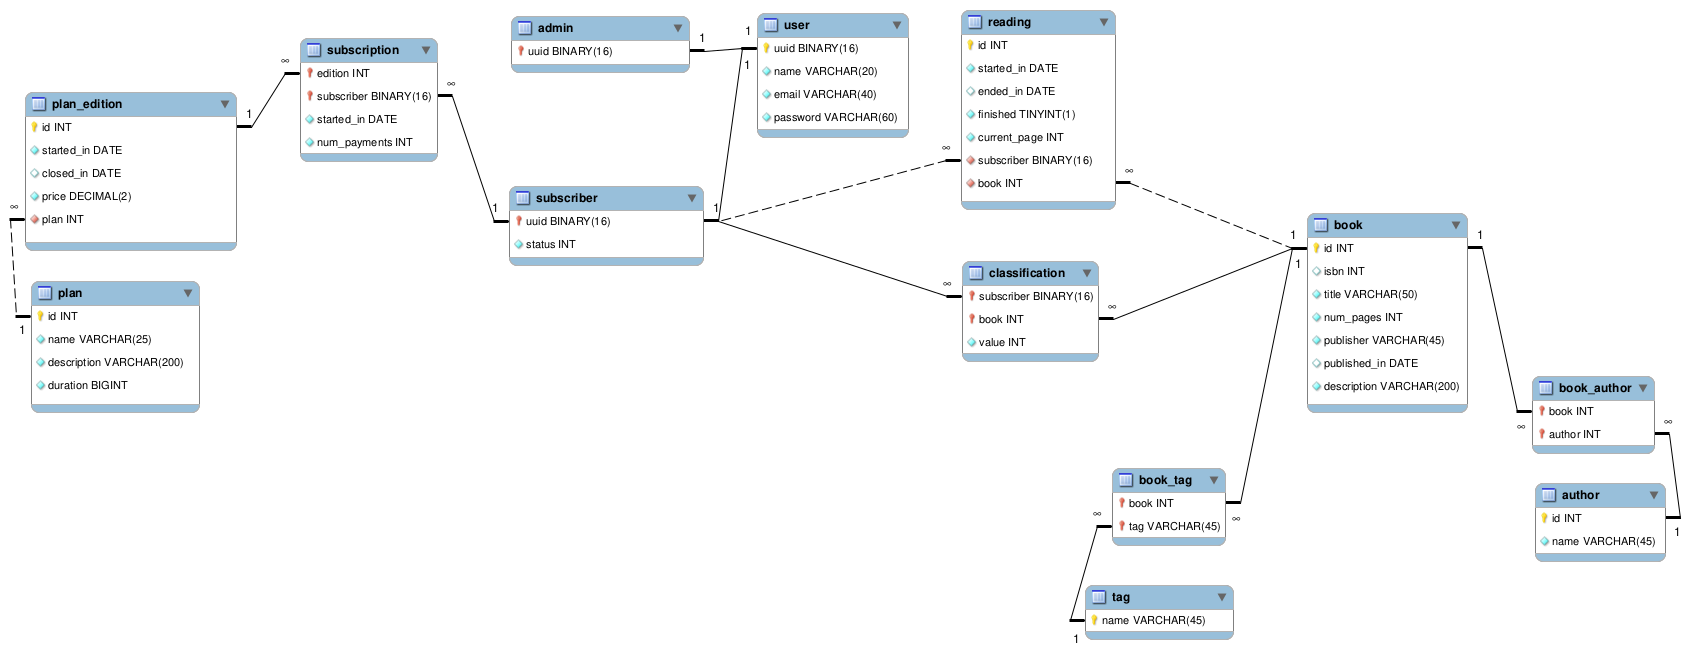
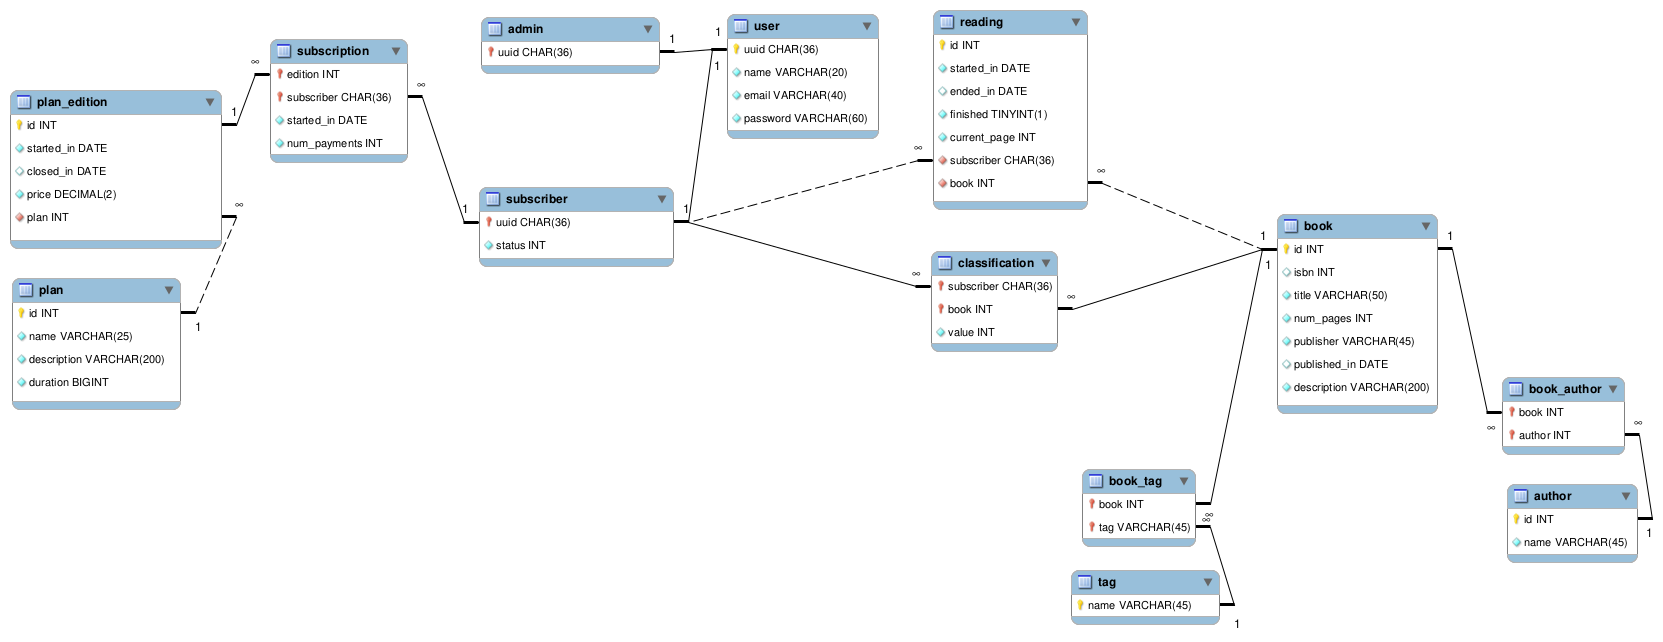
[chore] Adaptando métodos ao novo modelo do banco de dados

diff --git a/backend/src/main/java/app/netbooks/backend/repositories/UsersRepositoryImpl.java b/backend/src/main/java/app/netbooks/backend/repositories/UsersRepositoryImpl.java
@@ -6,8 +6,10 @@ import java.sql.ResultSet;
 import java.sql.SQLException;
 import java.sql.Statement;
 import java.util.ArrayList;
+import java.util.LinkedHashMap;
 import java.util.LinkedList;
 import java.util.List;
+import java.util.Map;
 import java.util.Optional;
 import java.util.UUID;
 
@@ -19,7 +21,6 @@ import app.netbooks.backend.connections.Database;
 import app.netbooks.backend.errors.InternalServerError;
 import app.netbooks.backend.models.Role;
 import app.netbooks.backend.models.User;
-import app.netbooks.backend.utils.UUIDUtils;
 
 @Repository
 public class UsersRepositoryImpl extends BaseRepository implements UsersRepository {
@@ -40,39 +41,65 @@ public class UsersRepositoryImpl extends BaseRepository implements UsersReposito
             try (
                 Statement statement = connection.createStatement();
                 PreparedStatement preparedCreateStatement = connection.prepareStatement(
-                    "INSERT IGNORE INTO user (name, email, password) \n" +
-                    "VALUES ('Admin', 'admin@gmail.com', ?);"
+                    "INSERT INTO user (uuid, name, email, password)\n" +
+                    "VALUES (UUID(), 'Admin', 'admin@gmail.com', ?)\n" +
+                    "ON DUPLICATE KEY UPDATE\n" +
+                    "    name = VALUES(name),\n" +
+                    "    password = VALUES(password);"
                 );
                 PreparedStatement preparedSetAdminStatement = connection.prepareStatement(
-                    "INSERT IGNORE INTO admin (uuid) \n" +
-                    "VALUES (?);"
+                    "INSERT INTO admin (uuid)\n" +
+                    "SELECT * FROM (SELECT ?) AS tmp\n" +
+                    "WHERE NOT EXISTS (\n" +
+                    "    SELECT 1 FROM admin WHERE uuid = ?\n" +
+                    ") LIMIT 1;"
                 );
             ) {
-                statement.execute(
-                    "DELETE FROM user WHERE email = 'admin@gmail.com';"
-                );
-
                 preparedCreateStatement.setString(1, encoder.encode("admin"));
                 preparedCreateStatement.executeUpdate();
 
-                byte[] bytes = {};
-                
                 try (
                     ResultSet result = statement.executeQuery(
                         "SELECT * FROM user WHERE email = 'admin@gmail.com';"
                     );
                 ) {
                     if(result.next()) {
-                        bytes = result.getBytes("uuid");
+                        UUID uuid = UUID.fromString(result.getString("uuid"));
+                        preparedSetAdminStatement.setString(1, uuid.toString());
+                        preparedSetAdminStatement.setString(2, uuid.toString());
+                        preparedSetAdminStatement.executeUpdate();
                     };
                 }
-                
-                preparedSetAdminStatement.setBytes(1, bytes);
+              
                 connection.commit();
             };
         } catch (SQLException e) {
             e.printStackTrace();
         };
+    };
+
+    private Map<UUID, List<Role>> findAllRoles(Connection connection) {
+        Map<UUID, List<Role>> rolesMap = new LinkedHashMap<>();
+
+        try (
+            Statement statement = connection.createStatement();
+            ResultSet result = statement.executeQuery(
+                "SELECT * FROM user_roles;"
+            );
+        ) {
+            while(result.next()) {
+                UUID uuid = UUID.fromString(result.getString("uuid"));
+                Role role = Role.fromString(result.getString("role"));
+                rolesMap.computeIfAbsent(
+                    uuid,
+                    v -> new ArrayList<Role>()
+                ).add(role);
+            };
+        } catch (SQLException e) {
+            e.printStackTrace();
+        };
+
+        return rolesMap;
     };
 
     @Override
@@ -86,14 +113,14 @@ public class UsersRepositoryImpl extends BaseRepository implements UsersReposito
                 "SELECT * FROM user;"
             );
         ) {
+            Map<UUID, List<Role>> allRoles = this.findAllRoles(connection);
             while(result.next()) {
-                byte[] bytes = result.getBytes("uuid");
-                UUID uuid = UUIDUtils.fromBytes(bytes);
+                UUID uuid = UUID.fromString(result.getString("uuid"));
                 String email = result.getString("email");
                 String name = result.getString("name");
                 String password = result.getString("password");
-                // Access access = Access.fromValue(result.getInt("access"));
-                User person = new User(uuid, name, email, password, new LinkedList<Role>());
+                List<Role> roles = allRoles.getOrDefault(uuid, new LinkedList<>());
+                User person = new User(uuid, name, email, password, roles);
                 persons.add(person);
             };
         } catch (SQLException e) {
@@ -111,7 +138,9 @@ public class UsersRepositoryImpl extends BaseRepository implements UsersReposito
                 "SELECT * FROM user WHERE uuid = ?;"
             );
         ) {
-            statement.setBytes(1, UUIDUtils.toBytes(uuid));
+            statement.setString(1, uuid.toString());
+
+            Map<UUID, List<Role>> allRoles = this.findAllRoles(connection);
             try (ResultSet result = statement.executeQuery();) {
                 Optional<User> userFound = Optional.empty();
 
@@ -119,7 +148,8 @@ public class UsersRepositoryImpl extends BaseRepository implements UsersReposito
                     String name = result.getString("name");
                     String email = result.getString("email");
                     String password = result.getString("password");
-                    User user = new User(uuid, name, email, password, new LinkedList<Role>());
+                    List<Role> roles = allRoles.getOrDefault(uuid, new LinkedList<>());
+                    User user = new User(uuid, name, email, password, roles);
                     userFound = Optional.of(user);
                 };
 
@@ -139,15 +169,17 @@ public class UsersRepositoryImpl extends BaseRepository implements UsersReposito
             );
         ) {
             statement.setString(1, email);
+
+            Map<UUID, List<Role>> allRoles = this.findAllRoles(connection);
             try (ResultSet result = statement.executeQuery()) {
                 Optional<User> userFound = Optional.empty();
 
                 if(result.next()) {
-                    byte[] bytes = result.getBytes("uuid");
-                    UUID uuid = UUIDUtils.fromBytes(bytes);
+                    UUID uuid = UUID.fromString(result.getString("uuid"));
                     String name = result.getString("name");
                     String password = result.getString("password");
-                    User user = new User(uuid, name, email, password, new LinkedList<Role>());
+                    List<Role> roles = allRoles.getOrDefault(uuid, new LinkedList<>());
+                    User user = new User(uuid, name, email, password, roles);
                     userFound = Optional.of(user);
                 };
 
@@ -163,8 +195,8 @@ public class UsersRepositoryImpl extends BaseRepository implements UsersReposito
         try (
             Connection connection = this.database.getConnection();
             PreparedStatement statement = connection.prepareStatement(
-                "INSERT INTO user (name, email, password) \n" +
-                "VALUES (?, ?, ?);"
+                "INSERT INTO user (uuid, name, email, password) \n" +
+                "VALUES (UUID(), ?, ?, ?);"
             );
         ) {
             statement.setString(1, user.getName());
@@ -191,7 +223,7 @@ public class UsersRepositoryImpl extends BaseRepository implements UsersReposito
             statement.setString(1, user.getName());
             statement.setString(2, user.getEmail());
             statement.setString(3, user.getPassword());
-            statement.setBytes(4, UUIDUtils.toBytes(user.getUuid()));
+            statement.setString(4, user.getUuid().toString());
             statement.executeUpdate();
         } catch (SQLException e) {
             throw new InternalServerError();
@@ -206,7 +238,7 @@ public class UsersRepositoryImpl extends BaseRepository implements UsersReposito
                 "DELETE FROM user WHERE uuid = ?;"
             );
         ) {
-            statement.setBytes(1, UUIDUtils.toBytes(uuid));
+            statement.setString(1, uuid.toString());
             statement.executeUpdate();
         } catch (Exception e) {
             throw new InternalServerError();

diff --git a/backend/src/test/java/app/netbooks/backend/repositories/UsersRepositoryTests.java b/backend/src/test/java/app/netbooks/backend/repositories/UsersRepositoryTests.java
@@ -22,6 +22,7 @@ import org.springframework.beans.factory.annotation.Autowired;
 import app.netbooks.backend.BaseTests;
 import app.netbooks.backend.connections.Database;
 import app.netbooks.backend.errors.InternalServerError;
+import app.netbooks.backend.models.Role;
 import app.netbooks.backend.models.User;
 
 public abstract class UsersRepositoryTests extends BaseTests {
@@ -34,7 +35,7 @@ public abstract class UsersRepositoryTests extends BaseTests {
             Connection connection = database.getConnection();
             Statement statement = connection.createStatement();
         ) {
-            statement.execute(
+            statement.executeUpdate(
                 "DELETE FROM user WHERE email != 'admin@gmail.com';"
             );
         } catch (SQLException e) {
@@ -63,11 +64,17 @@ public abstract class UsersRepositoryTests extends BaseTests {
     public void mustFind() {
         assertDoesNotThrow(() -> {
             List<User> users = repository.findAll();
-            // users.removeIf((User user) -> user.getAccess() != Access.DEFAULT);
+            users.removeIf(
+                (User user) -> user
+                    .getRoles()
+                    .contains(Role.ADMINISTRATOR)
+            );
             assertEquals(1, users.size());
 
             User user = users.get(0);
-            Optional<User> userFound = repository.findById(user.getUuid());
+            Optional<User> userFound = repository.findById(
+                user.getUuid()
+            );
             assertTrue(userFound.isPresent());
 
             userFound = repository.findByEmail(user.getEmail());
@@ -82,7 +89,7 @@ public abstract class UsersRepositoryTests extends BaseTests {
         assertDoesNotThrow(() -> {
             Optional<User> user = repository.findByEmail("admin@gmail.com");
             assertTrue(user.isPresent());
-            // assertEquals(Access.ADMINISTRATOR, user.get().getAccess());
+            assertTrue(user.get().getRoles().contains(Role.ADMINISTRATOR));
         });
     };
 
@@ -99,11 +106,6 @@ public abstract class UsersRepositoryTests extends BaseTests {
 
             Optional<User> userFound = repository.findById(user.get().getUuid());
             assertEquals("Marcel", userFound.get().getName());
-            
-            // user.get().setAccess(Access.SUBSCRIBER);
-            repository.update(user.get());
-            userFound = repository.findById(user.get().getUuid());
-            // assertEquals(Access.SUBSCRIBER, userFound.get().getAccess());
         });
     };
 

diff --git a/backend/src/main/java/app/netbooks/backend/dtos/UserResponse.java b/backend/src/main/java/app/netbooks/backend/dtos/UserResponse.java
@@ -4,6 +4,7 @@ import java.util.List;
 import java.util.UUID;
 import java.util.stream.Collectors;
 
+import app.netbooks.backend.models.Role;
 import app.netbooks.backend.models.User;
 import lombok.AllArgsConstructor;
 import lombok.Getter;
@@ -18,11 +19,13 @@ public class UserResponse {
     private UUID uuid;
     private String name;
     private String email;
+    private List<Role> roles;
 
     public UserResponse(User user) {
         this.uuid = user.getUuid();
         this.name = user.getName();
         this.email = user.getEmail();
+        this.roles = user.getRoles();
     };
 
     public static List<UserResponse> fromList(List<User> list) {

diff --git a/backend/src/test/java/app/netbooks/backend/BaseTests.java b/backend/src/test/java/app/netbooks/backend/BaseTests.java
@@ -29,7 +29,7 @@ public abstract class BaseTests  {
             Connection connection = database.getConnection();
             Statement statement = connection.createStatement();
         ) {
-            statement.execute("DELETE FROM " + table + ";");
+            statement.executeUpdate("DELETE FROM " + table + ";");
         } catch (SQLException e) {
             e.printStackTrace();
         };

diff --git a/backend/src/main/java/app/netbooks/backend/models/User.java b/backend/src/main/java/app/netbooks/backend/models/User.java
@@ -32,6 +32,7 @@ public class User implements UserDetails {
     @Override
     public List<? extends GrantedAuthority> getAuthorities() {
         return this.roles.stream()
+            .filter((Role role) -> role != Role.UNKNOWN)
             .map((Role role) -> new SimpleGrantedAuthority("ROLE_" + role.toString()))
             .collect(Collectors.toList());
     }

diff --git a/backend/src/main/java/app/netbooks/backend/models/Role.java b/backend/src/main/java/app/netbooks/backend/models/Role.java
@@ -2,5 +2,14 @@ package app.netbooks.backend.models;
 
 public enum Role {
     ADMINISTRATOR,
-    SUBSCRIBER;
+    SUBSCRIBER,
+    UNKNOWN;
+
+    public static Role fromString(String role) {
+        try {
+            return Role.valueOf(role);
+        } catch (IllegalArgumentException e) {
+            return Role.UNKNOWN;
+        }
+    };
 };
